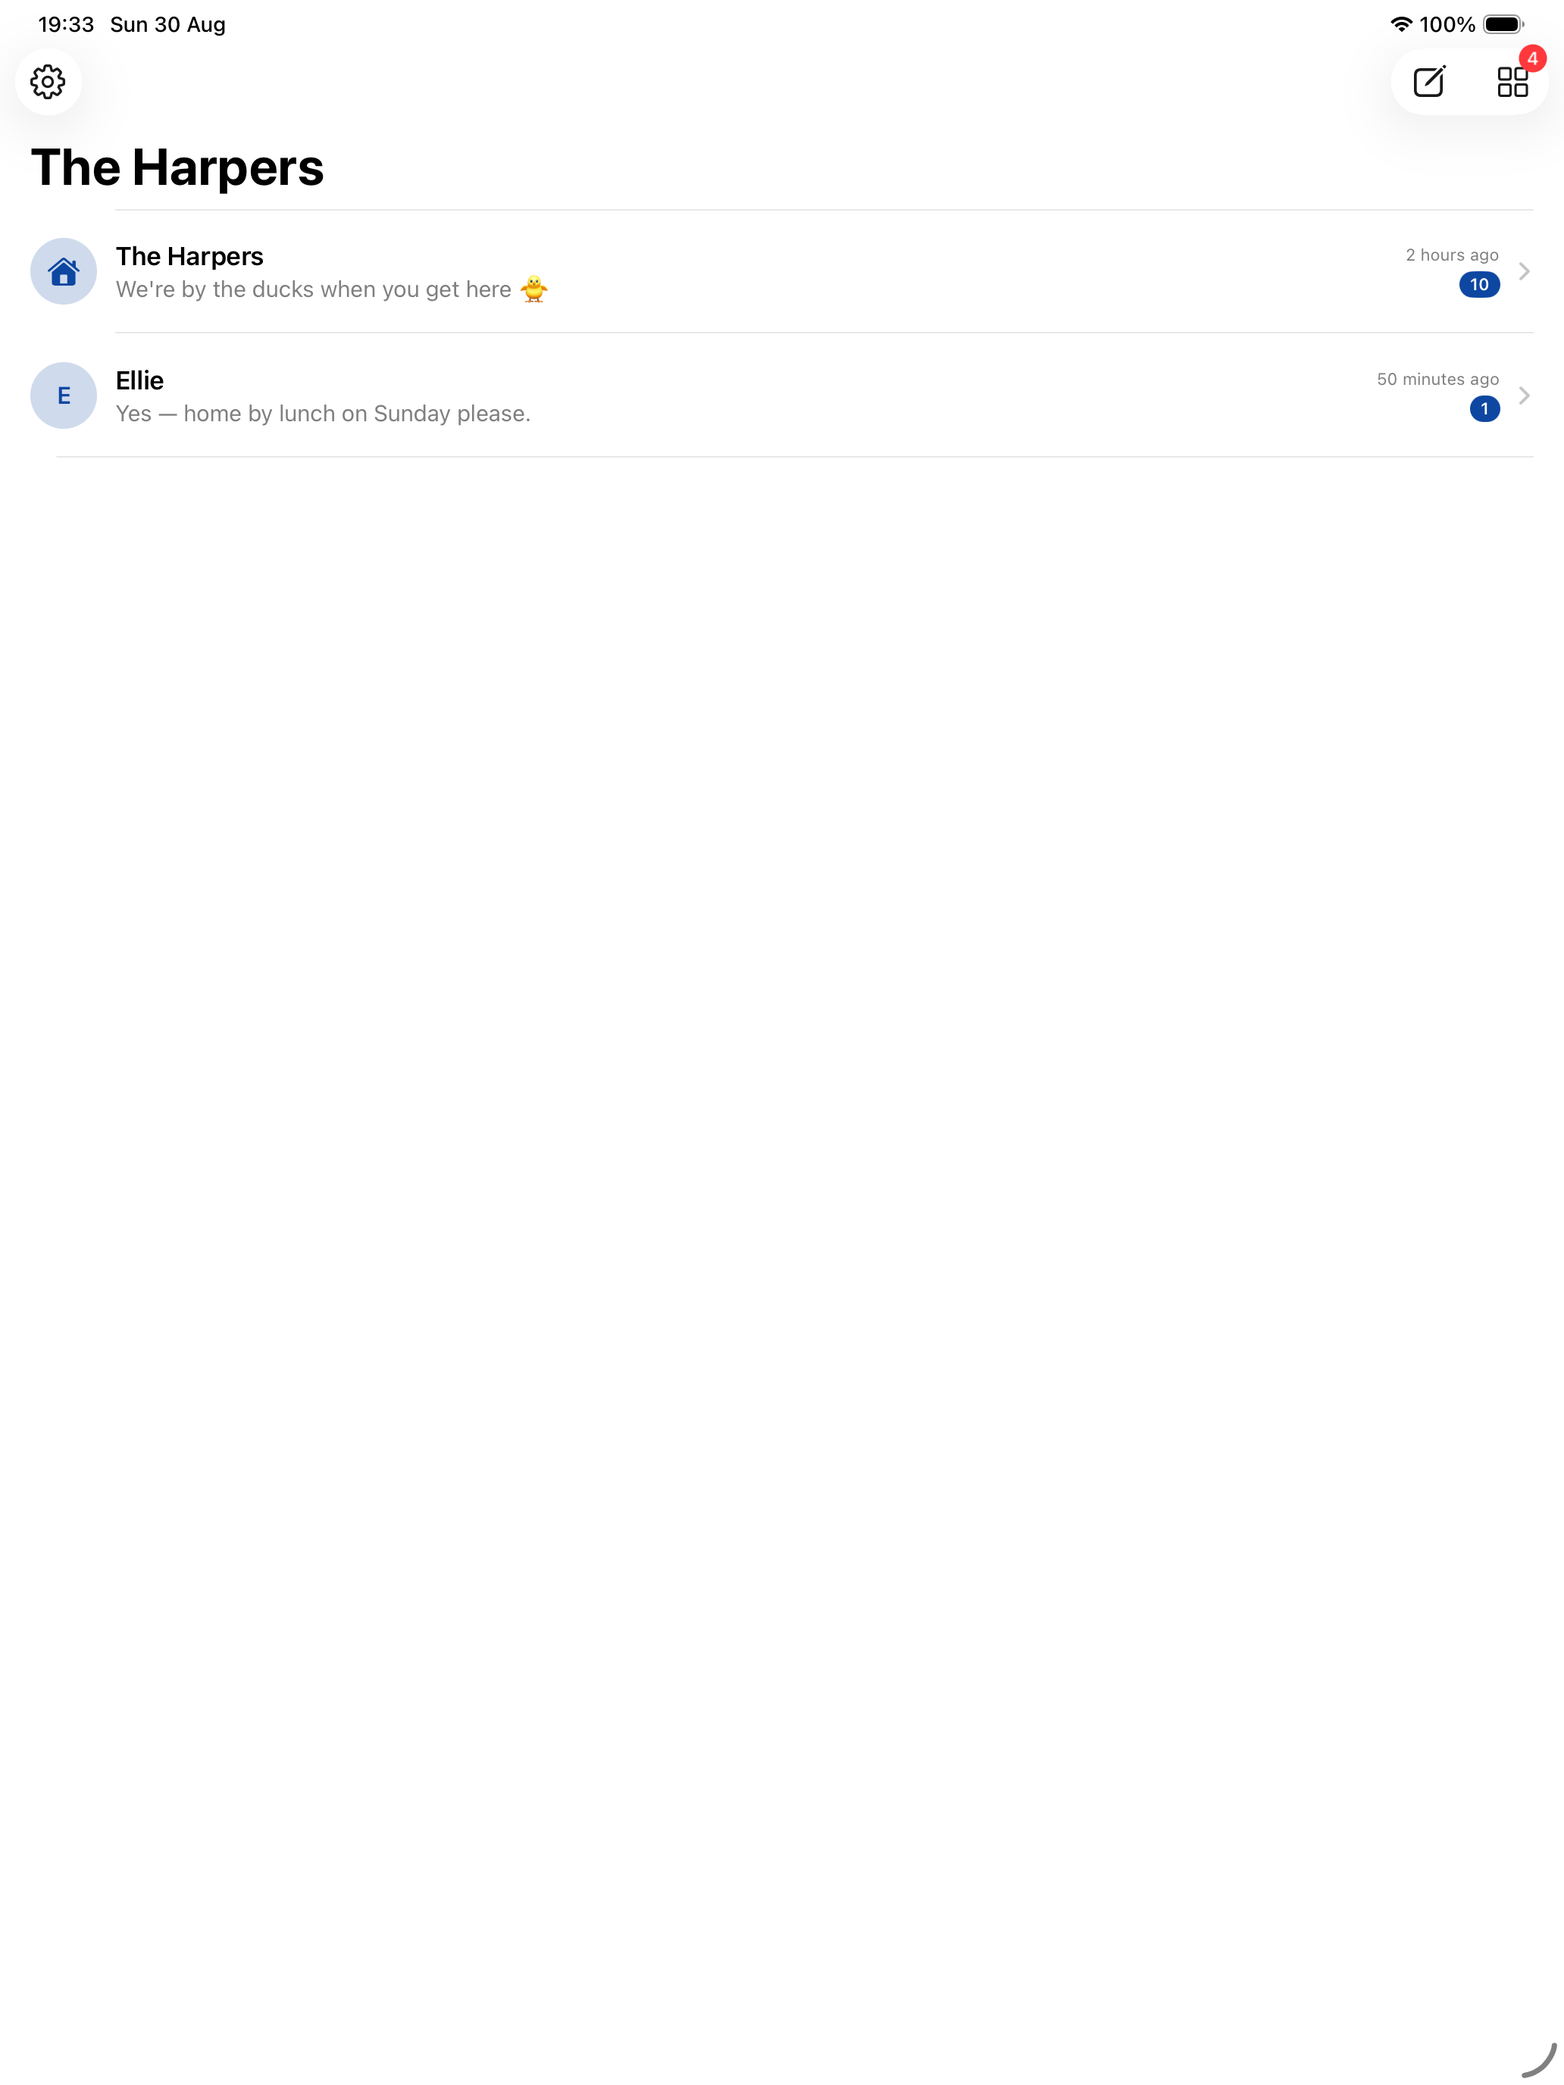
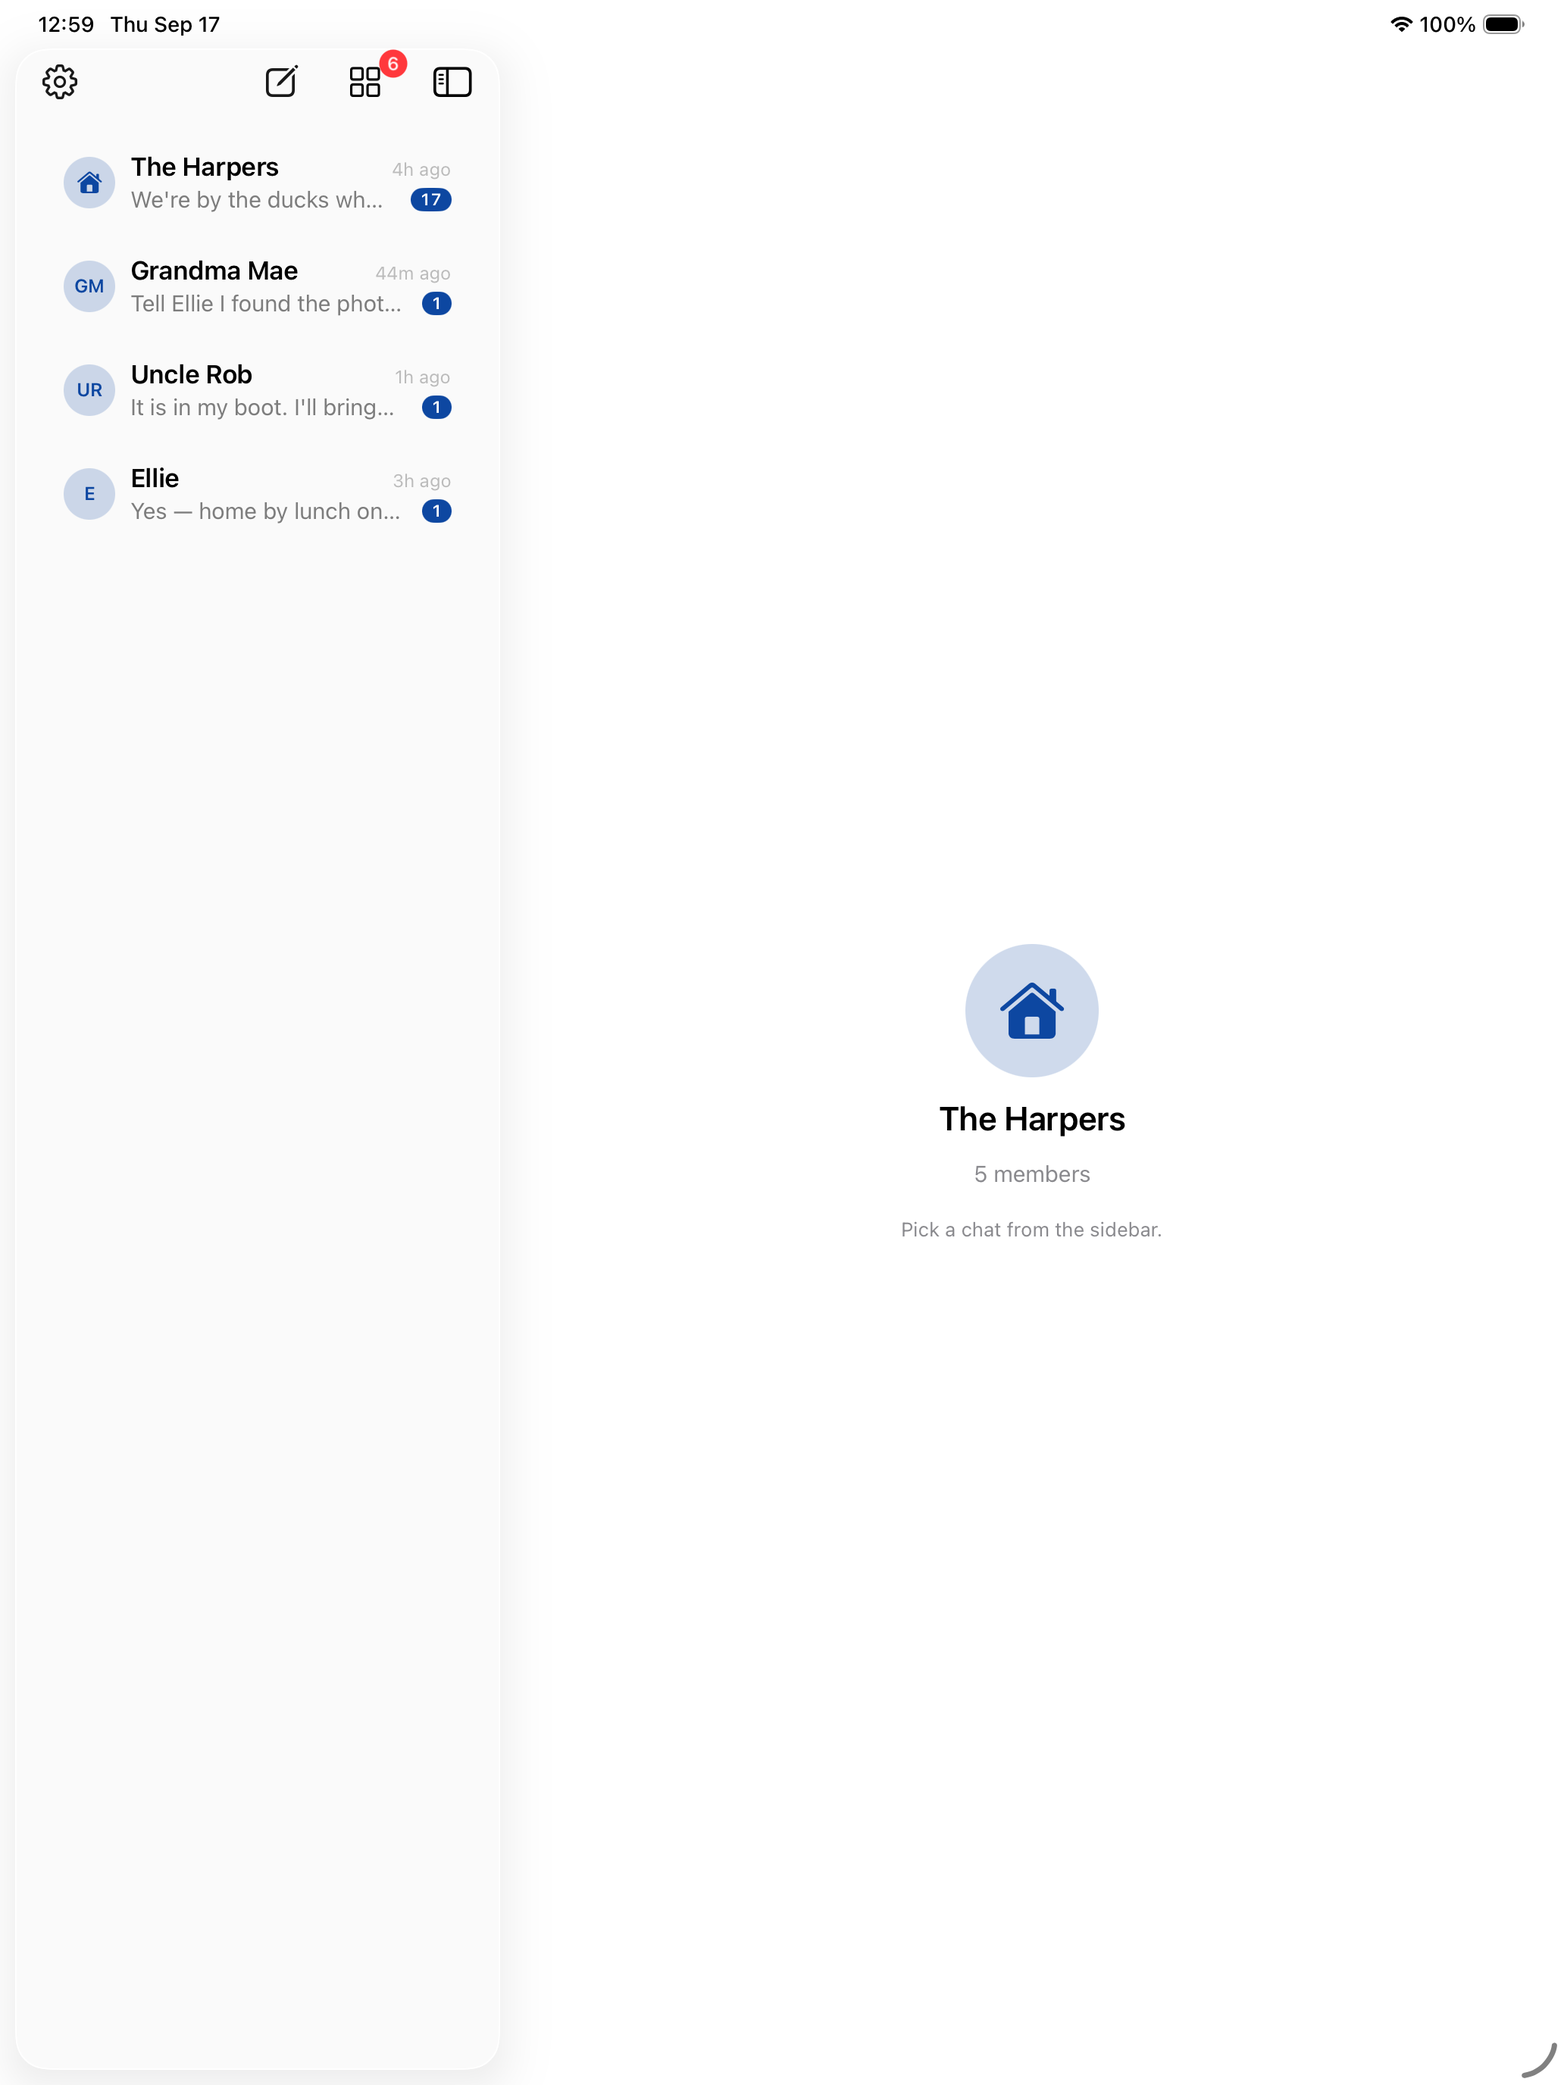
v1.1 iPadOS

diff --git a/ios/FamilyConnectUITests/StoreScreenshotUITests.swift b/ios/FamilyConnectUITests/StoreScreenshotUITests.swift
@@ -638,10 +638,32 @@ final class StoreScreenshotUITests: XCTestCase {
 
     @MainActor
     private func back(in app: XCUIApplication) {
+        // NOTHING TO GO BACK TO ON A SPLIT VIEW. The iPad keeps the chat
+        // list as a permanent sidebar (ChatListView's "two shapes, one
+        // state"), so there is no back button — and the first
+        // navigation-bar button is then the SIDEBAR TOGGLE, which collapses
+        // the sidebar and takes the Board button off screen with it. That
+        // is the whole of why the 2026-09-17 iPad run stopped at "none of
+        // [Board] was reachable" having shot the five screens before it.
+        if isSplitView { return }
         let back = app.navigationBars.buttons.firstMatch
         if back.exists { back.tap() }
         sleep(1)
     }
+
+    /// Whether this device draws the split view — measured, not guessed,
+    /// and measured ONCE.
+    ///
+    /// From the SCREEN rather than a window, because `app.windows` is
+    /// ambiguous after a login (trap 1) and because the idiom is not
+    /// visible to a UI test at all. A screenshot's image is in POINTS: 440
+    /// wide on the 6.9" iPhone, 1024 on the 13" iPad and 834 on the 11",
+    /// so anything at or above 700 is an iPad — and an iPhone-only build
+    /// running in compatibility mode on an iPad measures as the phone it
+    /// is pretending to be, which is exactly the right answer here.
+    private lazy var isSplitView: Bool = {
+        XCUIScreen.main.screenshot().image.size.width >= 700
+    }()
 
     // MARK: - Scrolling
 

diff --git a/ios/docs/appstore.md b/ios/docs/appstore.md
@@ -341,17 +341,30 @@ restore it immediately.
 > - The submitted archive must be rebuilt from current source. The Release-nettrash product in
 >   DerivedData is build 68 and carries the pre-calls camera and microphone strings with no
 >   local-network key; the verbatim strings quoted above are the build-103 ones.
-> - iPad: DECIDED 2026-09-16 — dropped. `TARGETED_DEVICE_FAMILY` is `"1"` in all twelve settings
->   across the four targets, so the record claims iPhone only and there is no iPad slot to fill.
->   What the old note said, kept because it is why the decision went this way: the target declared
->   device family 1,2 with no size-class adaptation, so an iPad
->   screenshot set.
+>
+> - iPad: REVERSED 2026-09-17, and the 13" set is shot. `TARGETED_DEVICE_FAMILY` is `"1,2"` again
+>   in all twelve settings, and `ios/docs/screenshots/ipad-13/` holds EIGHT shots at 2064x2752 —
+>   the same eight names as the iPhone set. Why it was dropped and why that was wrong, because the
+>   mistake is instructive: the 2026-09-16 decision rested on a note written on 2026-08-28 saying
+>   the target declared 1,2 "with no size-class adaptation anywhere — the iPad is a stretched
+>   iPhone". By then it had been false for a fortnight. `5e66173` (#43, 2026-09-03) gave the iPad
+>   its own shape: `ChatListView` becomes a `NavigationSplitView` with the chat list as the sidebar
+>   and the conversation in the detail column, chosen by IDIOM rather than size class so a
+>   rotation cannot tear down a live conversation, and `BoardView`, `AttachmentView`,
+>   `AlbumStackView`, `CallVideoView` and `UnreadDivider` adapt too. Dropping the family did not
+>   reveal a stretched iPhone; it CAUSED one — an iPhone-only build runs on an iPad in
+>   compatibility mode, where the idiom reports `.phone`, so the split view never appears. 1.0 is
+>   also already on the store for iPad (Apple reviewed it on an iPad Air), so shipping 1.1 as
+>   iPhone-only would have withdrawn it from those users.
+> - Two iPad rough edges, seen in the new set and NOT blockers: a sidebar row truncates its preview
+>   ("We're by the ducks wh…") with two thirds of the column empty below four chats, and the
+>   first-launch detail pane is a mostly blank placeholder. Both are polish for 1.2.
 
 ## Beta App Description (TestFlight → Test Information)
 
 Family Connect is a private messenger for one family, and this beta is how we find out what breaks before it reaches the App Store.
 
-On the Home Screen it is called Family, not Family Connect (iPhone, iOS 17 or later). The build is already pointed at our server, so there is nothing to set up: open it, register a username, a display name and a password — no email, no phone number — then create a family, which makes you its owner, or join one with an invite code. If you run your own Family Connect server, "Change server" on the sign-in screen points the app at it instead, including a plain http:// address on your own network.
+On the Home Screen it is called Family, not Family Connect (iPhone or iPad, iOS 17 or later). The build is already pointed at our server, so there is nothing to set up: open it, register a username, a display name and a password — no email, no phone number — then create a family, which makes you its owner, or join one with an invite code. If you run your own Family Connect server, "Change server" on the sign-in screen points the app at it instead, including a plain http:// address on your own network.
 
 Every family has one shared chat with everybody in it, pinned to the top of the list, plus private one-to-one chats between any two members.
 
@@ -374,7 +387,7 @@ If you were also sent the Mac build (macOS 14 or later), it is the same app with
 
 There are no ads, no analytics and no tracking in the app, so the only way we learn about a problem is you telling us. If anything is confusing, slow or broken, use TestFlight's "Send Beta Feedback" — a screenshot helps — or email us. Thank you for testing.
 
-*(3,839 characters of the 4,000 limit — 161 free, measured WITH the blank lines. Pairs with Feedback Email: set it to the support address. Still 1.0: it describes polls and the board but not threads, @mentions, the open-polls screen or the board's events and task lists.)*
+*(3,847 characters of the 4,000 limit — 153 free, measured WITH the blank lines. Pairs with Feedback Email: set it to the support address. Still 1.0: it describes polls and the board but not threads, @mentions, the open-polls screen or the board's events and task lists.)*
 
 *(Notification permission is asked for in-app, after the tester is in a family and the first sync finishes — never on the sign-in screen. On the Mac it can be asked earlier, at launch, if a session is already stored.)*
 
@@ -416,7 +429,7 @@ Each item is tagged **[code]** (a change in this repository) or **[nettrash]** (
 - [x] **[code]** Privacy Policy and Support links ship in Settings on both platforms, pointing at `https://nettrash.me/appstore/familyconnect/privacy.html` and `.../support.html`. The pages themselves exist.
 - [x] **[code]** Report and Block ship on iOS, macOS and Android, with the owner's report inbox and the four fixed reasons (`spam`, `harassment`, `inappropriate`, `other`). Together with member removal and the containment the product is built on — one family, membership an owner controls, no public feed, no discovery surface, no user directory, no way to reach a stranger — that is the guideline 1.2 answer. State it in that order everywhere it appears; never describe it as an absence.
 - [x] **[code]** Localisation is complete in nine languages (`de`, `en`, `es`, `fr`, `ja`, `ru`, `sr`, `sr-Latn`, `zh-Hans`): 501 keys in `Localizable.xcstrings`, 491 of them translatable, nothing missing and nothing flagged for review. The five `INFOPLIST_KEY_NS*UsageDescription` permission strings are outside that count and are English-only — see the open item below.
-- [x] **[code]** The iPhone 6.9" set is in `ios/docs/screenshots/iphone-6.9/` — **re-shot for 1.1 on 2026-09-16**, EIGHT shots at 1320x2868: `01-chats`, `02-family-chat`, `03-photos-and-poll`, `04-thread`, `05-open-polls`, `06-board`, `07-family`, `08-settings`. The 1.0 set's three later names (`04-board`, `05-family`, `06-settings`) are gone, because a directory holding two numbering schemes is how the wrong file gets uploaded (#55). `04`, `05` and the event and task cards in `06` are what 1.1 added. What they show comes from `server/scripts/seed-store-screenshots.sh`, which now seeds an eight-reply chain, two open polls, three direct chats, and an event dated to the NEXT SUNDAY at 1pm local — a card reading "Sunday lunch" at 8:56 PM on a Saturday is what a UTC offset produced. The album is still gradients: drop real images into `server/scripts/screenshot-photos/` (gitignored) and re-run to better it. The `ipad-13/` set beside it is NOT uploaded — iPad was dropped from the target on 2026-09-16 — and is kept only as a record of the 1.0 listing; delete it whenever you like. Uploading is a separate, **[nettrash]**, step.
+- [x] **[code]** The iPhone 6.9" set is in `ios/docs/screenshots/iphone-6.9/` — **re-shot for 1.1 on 2026-09-16**, EIGHT shots at 1320x2868: `01-chats`, `02-family-chat`, `03-photos-and-poll`, `04-thread`, `05-open-polls`, `06-board`, `07-family`, `08-settings`. The 1.0 set's three later names (`04-board`, `05-family`, `06-settings`) are gone, because a directory holding two numbering schemes is how the wrong file gets uploaded (#55). `04`, `05` and the event and task cards in `06` are what 1.1 added. What they show comes from `server/scripts/seed-store-screenshots.sh`, which now seeds an eight-reply chain, two open polls, three direct chats, and an event dated to the NEXT SUNDAY at 1pm local — a card reading "Sunday lunch" at 8:56 PM on a Saturday is what a UTC offset produced. The album is still gradients: drop real images into `server/scripts/screenshot-photos/` (gitignored) and re-run to better it. The `ipad-13/` set beside it IS uploaded, and was re-shot on 2026-09-17 after the iPad decision was reversed: the same eight names at 2064x2752, the 13" portrait size App Store Connect asks for. Both sets come from the same harness and the same fixture; the only iPad-specific change it needed was that `back(in:)` must do nothing on a split view, where the first navigation-bar button is the sidebar TOGGLE and tapping it hides the Board button. Uploading is a separate, **[nettrash]**, step.
 - [x] **[code]** The capture runs on a **simulator this repo makes**, not one of yours: `xcrun simctl create "FC-Store-6.9" com.apple.CoreSimulator.SimDeviceType.iPhone-17-Pro-Max com.apple.CoreSimulator.SimRuntime.iOS-26-5`, then `defaults write com.apple.Preferences AppleKeyboards -array "en_US@sw=QWERTY;hw=Automatic"` inside it and a reboot. That is not hygiene, it is the fix for three failed runs: the shared iPhone simulator's keyboard was RUSSIAN, and while the username field forces an ASCII layout (`.literalTextEntry()`) the password field does not — so `typeText("password123")` put nothing but `123` into it. The server answered an honest 401, the screen said "Wrong username or password.", and the harness reported "no refusal" because it watched only for the other error string. It now types a secure field one character at a time and counts the bullets.
 - [x] **[code]** The Promotional Text, Description, Keywords, Notes for App Review and TestFlight sections above were rewritten in the same edit that produced this checklist, against the shipped feature set. Verifying that nothing stale survived elsewhere in the file is the first open item below, not a done one.
 
@@ -465,7 +478,7 @@ Each item is tagged **[code]** (a change in this repository) or **[nettrash]** (
 - [ ] **[nettrash]** In App Store Connect: paste the Support URL and Privacy Policy URL, enter the owner demo credentials in App Review Information, and upload the two screenshot sets.
 - [x] **[nettrash]** Export compliance is answered: **NO**, decided 2026-08-31. The basis is written up under **Export compliance** below — read it before repeating the answer anywhere else, because the reason the sibling apps' answer does not simply transfer is the one fact that makes this non-trivial.
 - [ ] **[nettrash]** Complete the age-rating questionnaire. The honest inputs are: user-generated content yes, person-to-person messaging with media yes, both bounded to a single family whose membership an owner controls, with in-app reporting, blocking, an owner report inbox and member removal. Web access is restricted: there is no in-app browser — tapped links hand off to the system browser through `openURL` — though the app does fetch metadata from linked hosts for previews. No gambling, contests, purchases or ads. No parental controls and no age verification, since birthdays carry no year. The open judgement is the assistant: if `[ai]` is enabled it writes model output into the shared family chat, and whether that moves the rating is a policy call that cannot be made until the item above resolves.
-- [x] **[nettrash]** DECIDED 2026-09-16: iPad dropped. The question was: `TARGETED_DEVICE_FAMILY` is "1,2" but there is no size-class adaptation anywhere — the iPad is a stretched iPhone. Either adapt the layout, or drop to "1" and drop the iPad screenshot slot. Do not claim an iPad-optimised layout either way.
+- [x] **[nettrash]** DECIDED 2026-09-17: **iPad kept**, reversing the 2026-09-16 decision to drop it — and the reversal is the interesting half. The question put to you was: "`TARGETED_DEVICE_FAMILY` is 1,2 but there is no size-class adaptation anywhere — the iPad is a stretched iPhone. Either adapt the layout, or drop to 1 and drop the iPad screenshot slot." That claim was written on 2026-08-28 and was already two weeks stale when it was acted on: `5e66173` (#43, 2026-09-03) had given the iPad a `NavigationSplitView` — chat list as sidebar, conversation in the detail column, chosen by idiom — with adaptations in `BoardView`, `AttachmentView`, `AlbumStackView`, `CallVideoView` and `UnreadDivider`. Verified on 2026-09-17 by restoring 1,2 and shooting the 13" set: it is a genuine two-column iPad app. The lesson for this file: a claim about the CODE has to be re-read from the code before a release decision rests on it.
 - [ ] **[nettrash]** Decide which name leads the App Store record. The app's on-device display name is "Family"; the product and this document are called "Family Connect", and the Siri vocabulary teaches "Call Anna on Family".
 - [ ] **[nettrash]** Decide whether open registration on fc.nettrash.me is acceptable at launch. There is no invite gate, no email, no allowlist and no config switch, so any App Store customer can create an account and a family on his box. Family isolation bounds the exposure — a new account sees nobody and reaches nobody — but storage (100 MB per attachment), server load and his own position as the operator of record are real. A `[registration]` switch on the server is the obvious follow-up.
 
